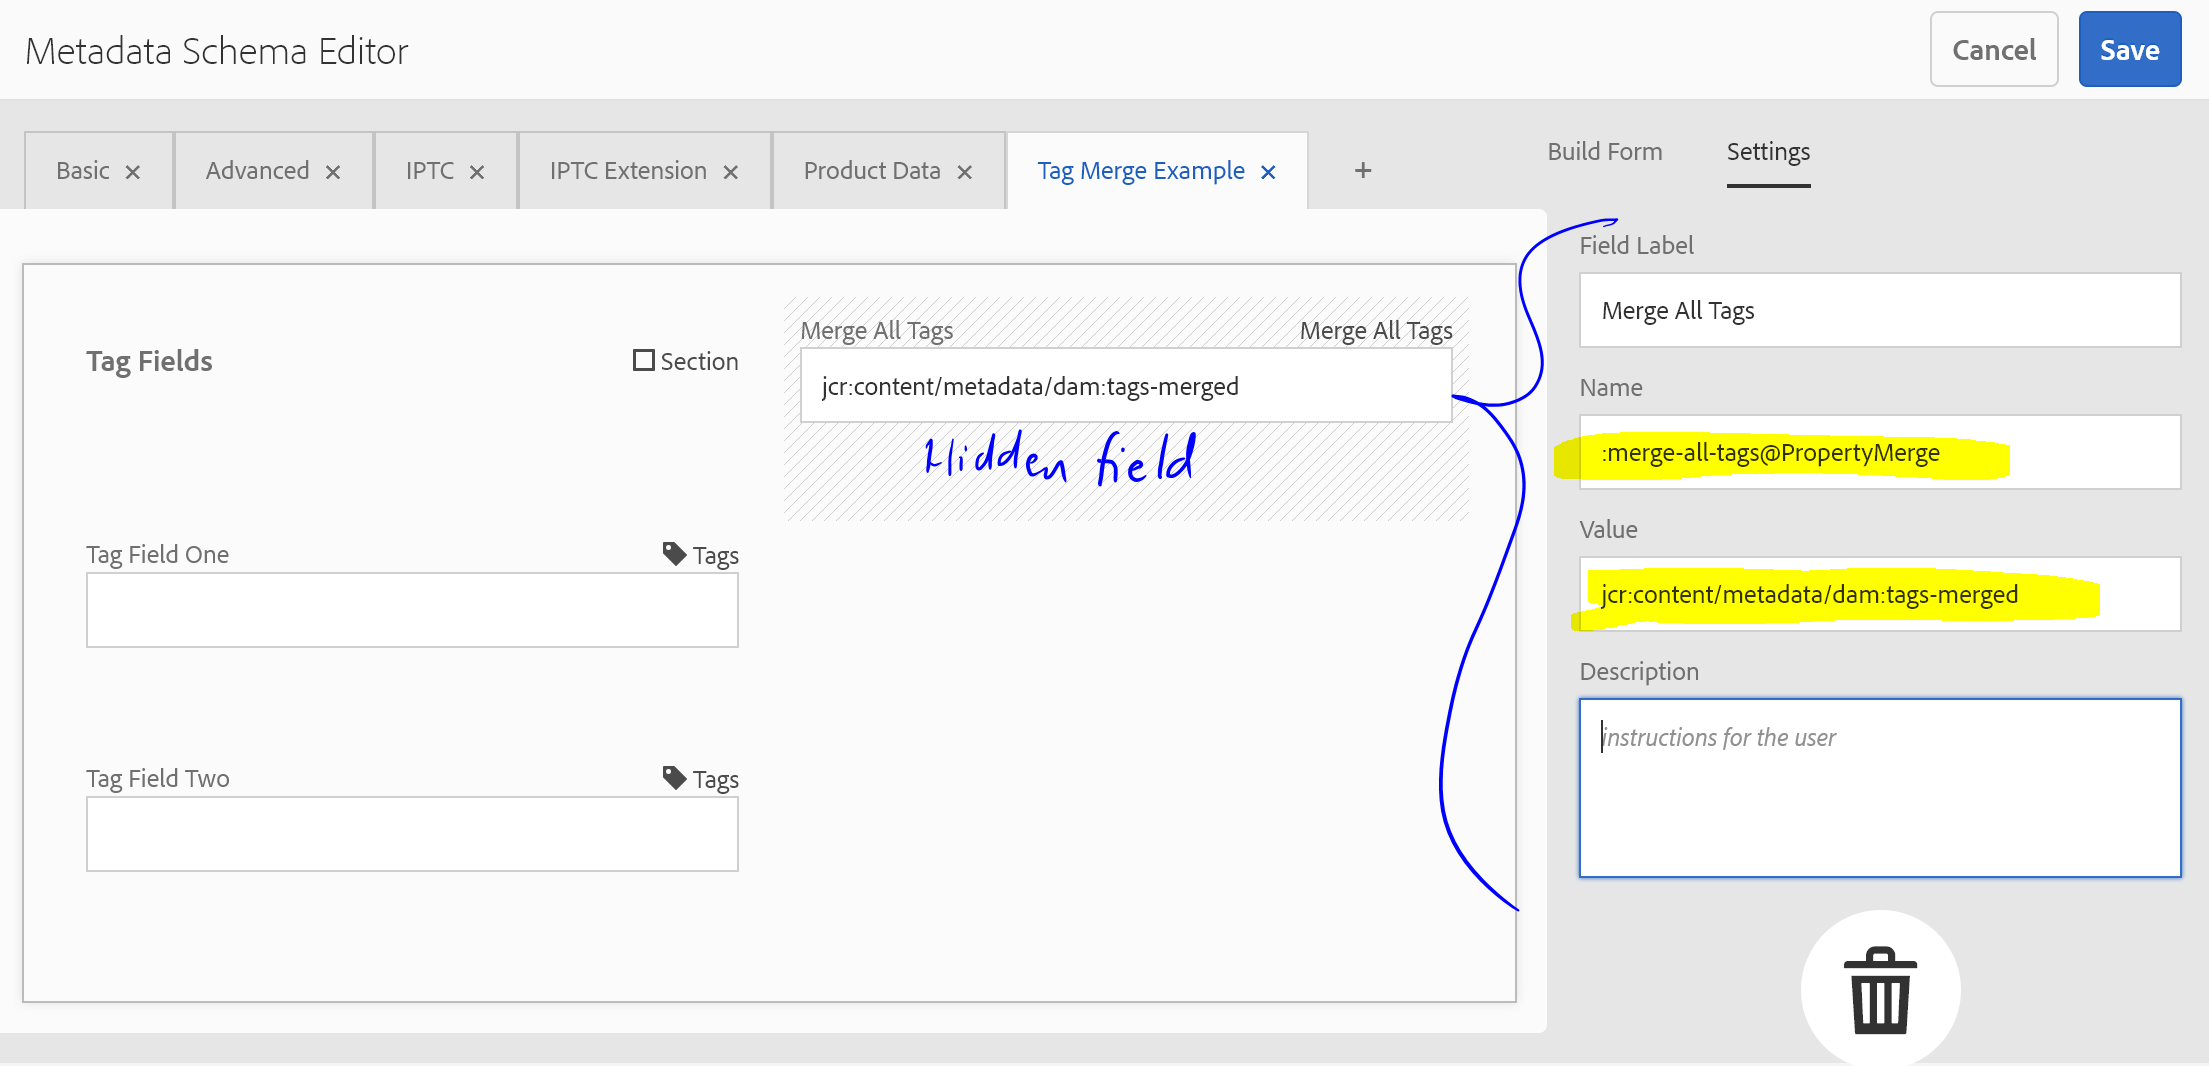
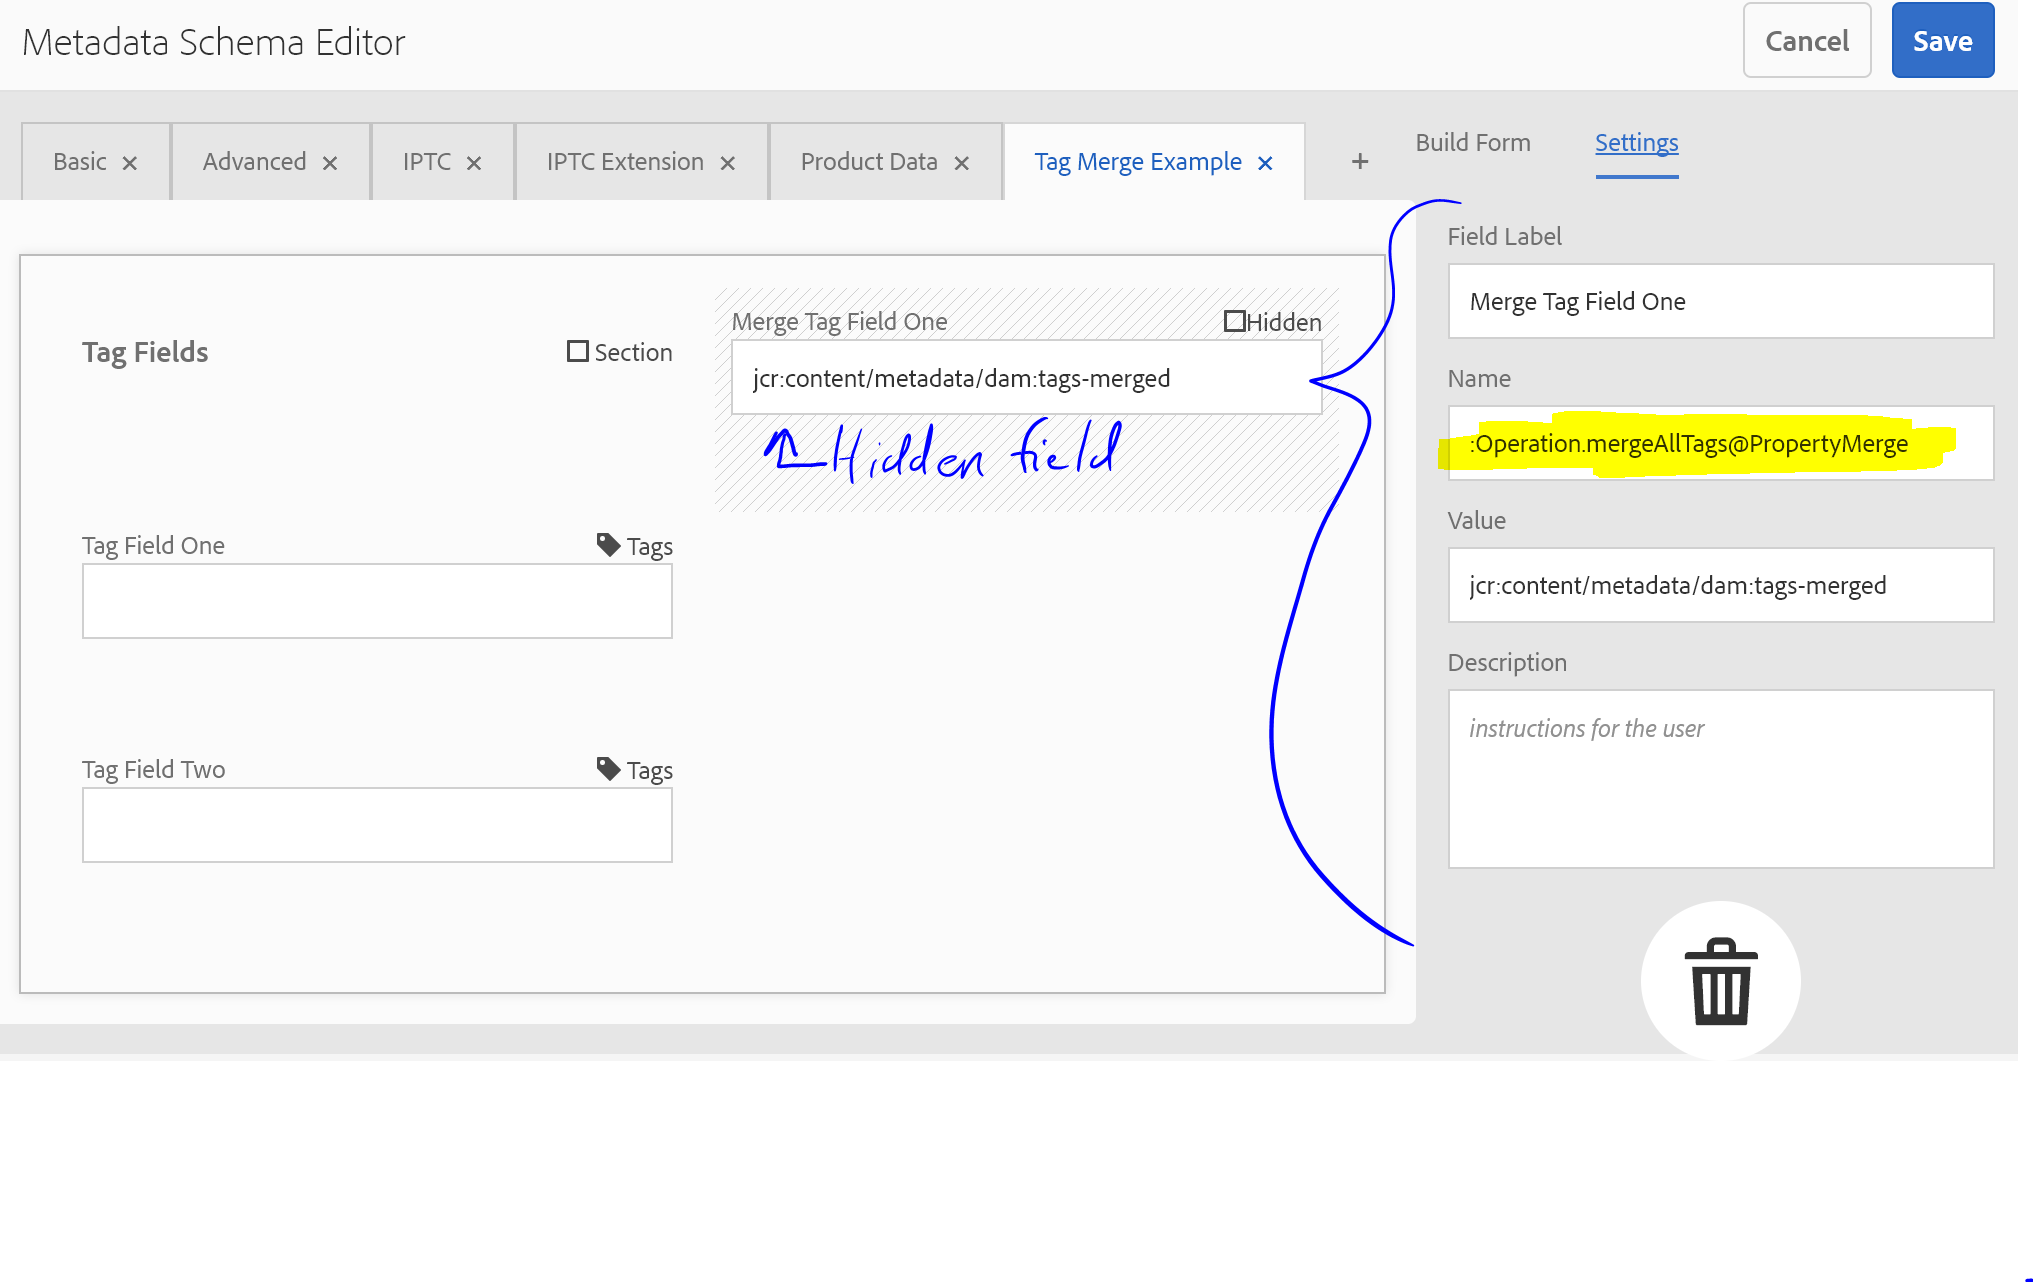
Updated for 3.13.0 changes (Operation.mergeAllTags)

diff --git a/_acs-aem-commons/features/property-merge-postprocessor/index.md b/_acs-aem-commons/features/property-merge-postprocessor/index.md
@@ -48,11 +48,11 @@ Note the `:` prefix to ensure these params are ignored by the OOTB Sling POST Se
 
 ### Special case: Merging all tags
 
-You can also specify a special value for source prop `merge-all-tags` which will enable a mode wherein the processor evaluates all incoming data for values that look like tags, and merge all of them to the designated property.
+You can also specify a special value for source property `Operation.mergeAllTags` which will enable a mode wherein the processor evaluates all incoming data for values that look like tags, and merge all of them to the designated property.
 
 Example
 
-    :merge-all-tags@PropertyMerge=allTags
+    :Operation.mergeAllTags@PropertyMerge=allTags
 
 ## TouchUI Asset editing support
 
@@ -60,7 +60,7 @@ As of ACS Commons 3.13.0, this feature now supports the asset schema metadata fo
 
 ![Asset merge example](images/asset-example.png)
 
-This example shows how to use `merge-all-tags` from an asset schema editor.  It is possible to also merge specific fields by name, but you will have to add one hidden field for each, with names for each field like so:
+This example shows how to use `Operation.mergeAllTags` from an asset schema editor.  It is possible to also merge specific fields by name, but you will have to add one hidden field for each, with names for each field like so:
 
     :jcr:content/metadata/dam:tag-field1@PropertyMerge
     :jcr:content/metadata/dam:tag-field2@PropertyMerge
